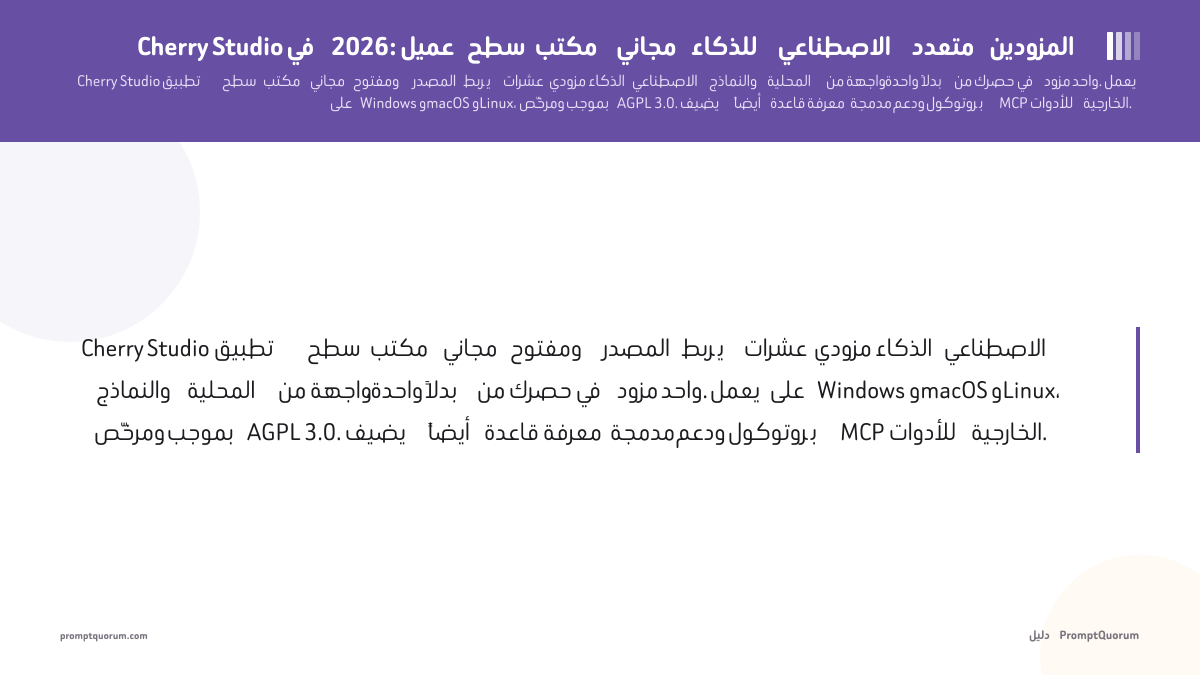
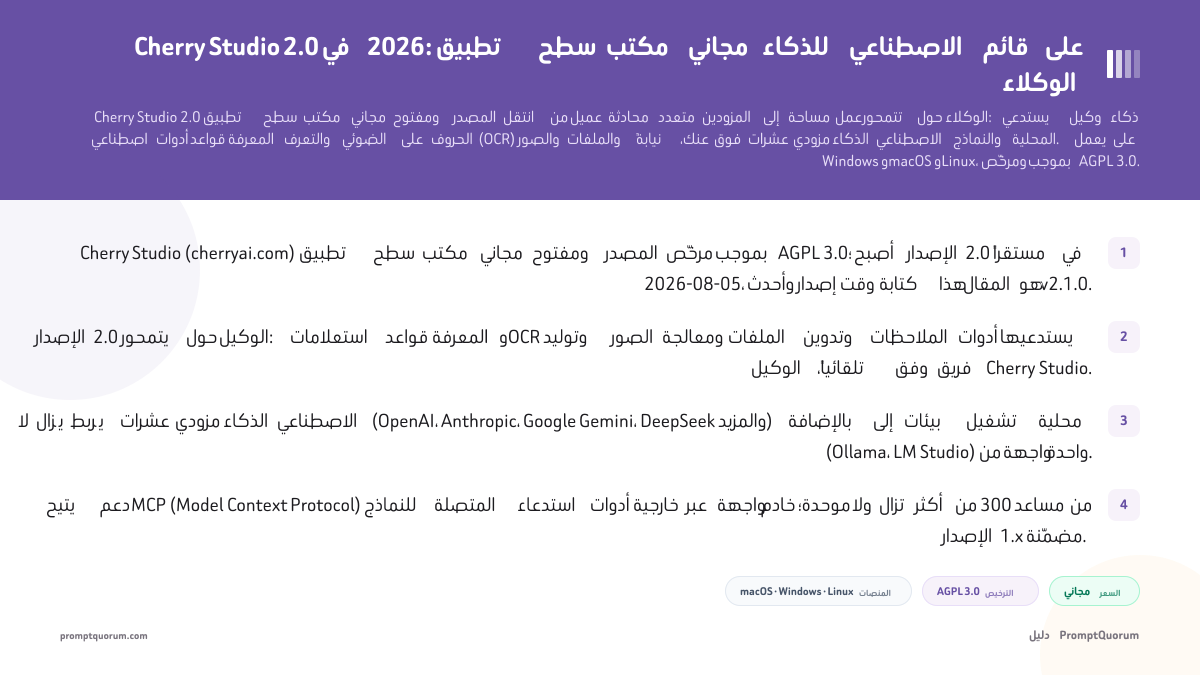
feat(directory): tile pull-quote + Cherry Studio 2.0 hero images + table link fix
- ToolRecordFounder.pullQuote: optional verbatim tile excerpt (Cherry Studio uses it)
- Regenerate all 9 hero images with the 2.0 title and facts chips
- Comparison table Tool cells use **[Name](url)** so links render

diff --git a/src/lib/local-llms/articles/cherry-studio-ai-desktop-client-2026.ts b/src/lib/local-llms/articles/cherry-studio-ai-desktop-client-2026.ts
@@ -230,10 +230,10 @@ export const article: Partial<Record<Language, LLMArticle>> = {
         itemHeadings: true,
         columns: ['Tool', 'Best for', 'Agents', 'Runs local models', 'Cloud providers', 'Built-in RAG', 'MCP support', 'License'],
         rows: [
-          { 'Tool': '[**Cherry Studio**](https://cherryai.com)', 'Best for': 'Agent workspace across many providers', 'Agents': 'Built in (core of 2.0)', 'Runs local models': 'Via Ollama / LM Studio (not native)', 'Cloud providers': 'Dozens', 'Built-in RAG': 'Yes (Agents can use it)', 'MCP support': 'Yes', 'License': 'AGPL 3.0' },
-          { 'Tool': '[**LM Studio**](https://lmstudio.ai)', 'Best for': 'Downloading and running GGUF models locally', 'Agents': 'Via MCP tools only', 'Runs local models': 'Native (GGUF)', 'Cloud providers': 'None built in', 'Built-in RAG': 'Yes (chat with documents)', 'MCP support': 'Yes', 'License': 'Free (closed)' },
-          { 'Tool': '[**AnythingLLM**](https://anythingllm.com)', 'Best for': 'RAG-first document chat with a vector store', 'Agents': 'Yes (@agent skills)', 'Runs local models': 'Via Ollama / LM Studio', 'Cloud providers': 'Several', 'Built-in RAG': 'Yes (core feature)', 'MCP support': 'Yes', 'License': 'MIT' },
-          { 'Tool': '[**Msty**](https://msty.app)', 'Best for': 'Clean consumer UX with minimal setup', 'Agents': 'Via MCP tools', 'Runs local models': 'Via Ollama (built in)', 'Cloud providers': 'Several', 'Built-in RAG': 'Yes', 'MCP support': 'Yes', 'License': 'Freemium (closed)' },
+          { 'Tool': '**[Cherry Studio](https://cherryai.com)**', 'Best for': 'Agent workspace across many providers', 'Agents': 'Built in (core of 2.0)', 'Runs local models': 'Via Ollama / LM Studio (not native)', 'Cloud providers': 'Dozens', 'Built-in RAG': 'Yes (Agents can use it)', 'MCP support': 'Yes', 'License': 'AGPL 3.0' },
+          { 'Tool': '**[LM Studio](https://lmstudio.ai)**', 'Best for': 'Downloading and running GGUF models locally', 'Agents': 'Via MCP tools only', 'Runs local models': 'Native (GGUF)', 'Cloud providers': 'None built in', 'Built-in RAG': 'Yes (chat with documents)', 'MCP support': 'Yes', 'License': 'Free (closed)' },
+          { 'Tool': '**[AnythingLLM](https://anythingllm.com)**', 'Best for': 'RAG-first document chat with a vector store', 'Agents': 'Yes (@agent skills)', 'Runs local models': 'Via Ollama / LM Studio', 'Cloud providers': 'Several', 'Built-in RAG': 'Yes (core feature)', 'MCP support': 'Yes', 'License': 'MIT' },
+          { 'Tool': '**[Msty](https://msty.app)**', 'Best for': 'Clean consumer UX with minimal setup', 'Agents': 'Via MCP tools', 'Runs local models': 'Via Ollama (built in)', 'Cloud providers': 'Several', 'Built-in RAG': 'Yes', 'MCP support': 'Yes', 'License': 'Freemium (closed)' },
         ],
         note: 'Deeper comparison of desktop frontends: [Best Local LLM Frontends](/local-llms/best-local-llm-frontends). Competitor cells reflect each tool\'s public documentation.',
       },
@@ -530,10 +530,10 @@ export const article: Partial<Record<Language, LLMArticle>> = {
         itemHeadings: true,
         columns: ['Tool', 'Am besten für', 'Agenten', 'Lokale Modelle', 'Cloud-Anbieter', 'RAG eingebaut', 'MCP-Unterstützung', 'Lizenz'],
         rows: [
-          { 'Tool': '[**Cherry Studio**](https://cherryai.com)', 'Am besten für': 'Agent-Arbeitsbereich über viele Anbieter', 'Agenten': 'Eingebaut (Kern von 2.0)', 'Lokale Modelle': 'Über Ollama / LM Studio (nicht nativ)', 'Cloud-Anbieter': 'Dutzende', 'RAG eingebaut': 'Ja (Agenten können es nutzen)', 'MCP-Unterstützung': 'Ja', 'Lizenz': 'AGPL 3.0' },
-          { 'Tool': '[**LM Studio**](https://lmstudio.ai)', 'Am besten für': 'GGUF-Modelle lokal herunterladen und ausführen', 'Agenten': 'Nur über MCP-Tools', 'Lokale Modelle': 'Nativ (GGUF)', 'Cloud-Anbieter': 'Keine integriert', 'RAG eingebaut': 'Ja (Chat mit Dokumenten)', 'MCP-Unterstützung': 'Ja', 'Lizenz': 'Kostenlos (proprietär)' },
-          { 'Tool': '[**AnythingLLM**](https://anythingllm.com)', 'Am besten für': 'RAG-first Dokumenten-Chat mit Vektorspeicher', 'Agenten': 'Ja (@agent-Skills)', 'Lokale Modelle': 'Über Ollama / LM Studio', 'Cloud-Anbieter': 'Mehrere', 'RAG eingebaut': 'Ja (Kernfunktion)', 'MCP-Unterstützung': 'Ja', 'Lizenz': 'MIT' },
-          { 'Tool': '[**Msty**](https://msty.app)', 'Am besten für': 'Übersichtliche Consumer-UX mit minimaler Einrichtung', 'Agenten': 'Über MCP-Tools', 'Lokale Modelle': 'Über Ollama (integriert)', 'Cloud-Anbieter': 'Mehrere', 'RAG eingebaut': 'Ja', 'MCP-Unterstützung': 'Ja', 'Lizenz': 'Freemium (proprietär)' },
+          { 'Tool': '**[Cherry Studio](https://cherryai.com)**', 'Am besten für': 'Agent-Arbeitsbereich über viele Anbieter', 'Agenten': 'Eingebaut (Kern von 2.0)', 'Lokale Modelle': 'Über Ollama / LM Studio (nicht nativ)', 'Cloud-Anbieter': 'Dutzende', 'RAG eingebaut': 'Ja (Agenten können es nutzen)', 'MCP-Unterstützung': 'Ja', 'Lizenz': 'AGPL 3.0' },
+          { 'Tool': '**[LM Studio](https://lmstudio.ai)**', 'Am besten für': 'GGUF-Modelle lokal herunterladen und ausführen', 'Agenten': 'Nur über MCP-Tools', 'Lokale Modelle': 'Nativ (GGUF)', 'Cloud-Anbieter': 'Keine integriert', 'RAG eingebaut': 'Ja (Chat mit Dokumenten)', 'MCP-Unterstützung': 'Ja', 'Lizenz': 'Kostenlos (proprietär)' },
+          { 'Tool': '**[AnythingLLM](https://anythingllm.com)**', 'Am besten für': 'RAG-first Dokumenten-Chat mit Vektorspeicher', 'Agenten': 'Ja (@agent-Skills)', 'Lokale Modelle': 'Über Ollama / LM Studio', 'Cloud-Anbieter': 'Mehrere', 'RAG eingebaut': 'Ja (Kernfunktion)', 'MCP-Unterstützung': 'Ja', 'Lizenz': 'MIT' },
+          { 'Tool': '**[Msty](https://msty.app)**', 'Am besten für': 'Übersichtliche Consumer-UX mit minimaler Einrichtung', 'Agenten': 'Über MCP-Tools', 'Lokale Modelle': 'Über Ollama (integriert)', 'Cloud-Anbieter': 'Mehrere', 'RAG eingebaut': 'Ja', 'MCP-Unterstützung': 'Ja', 'Lizenz': 'Freemium (proprietär)' },
         ],
         note: 'Tieferer Vergleich von Desktop-Frontends: [Best Local LLM Frontends](/de/local-llms/best-local-llm-frontends). Die Zellen der Konkurrenten spiegeln die öffentliche Dokumentation des jeweiligen Tools wider.',
       },
@@ -830,10 +830,10 @@ export const article: Partial<Record<Language, LLMArticle>> = {
         itemHeadings: true,
         columns: ['Herramienta', 'Mejor para', 'Agentes', 'Modelos locales', 'Proveedores en la nube', 'RAG integrado', 'Soporte MCP', 'Licencia'],
         rows: [
-          { 'Herramienta': '[**Cherry Studio**](https://cherryai.com)', 'Mejor para': 'Espacio de agentes con muchos proveedores', 'Agentes': 'Integrados (núcleo de la 2.0)', 'Modelos locales': 'Vía Ollama / LM Studio (no nativo)', 'Proveedores en la nube': 'Decenas', 'RAG integrado': 'Sí (los agentes lo usan)', 'Soporte MCP': 'Sí', 'Licencia': 'AGPL 3.0' },
-          { 'Herramienta': '[**LM Studio**](https://lmstudio.ai)', 'Mejor para': 'Descargar y ejecutar modelos GGUF localmente', 'Agentes': 'Solo vía herramientas MCP', 'Modelos locales': 'Nativo (GGUF)', 'Proveedores en la nube': 'Ninguno integrado', 'RAG integrado': 'Sí (chat con documentos)', 'Soporte MCP': 'Sí', 'Licencia': 'Gratis (cerrado)' },
-          { 'Herramienta': '[**AnythingLLM**](https://anythingllm.com)', 'Mejor para': 'Chat documental RAG-first con almacén vectorial', 'Agentes': 'Sí (habilidades @agent)', 'Modelos locales': 'Vía Ollama / LM Studio', 'Proveedores en la nube': 'Varios', 'RAG integrado': 'Sí (función central)', 'Soporte MCP': 'Sí', 'Licencia': 'MIT' },
-          { 'Herramienta': '[**Msty**](https://msty.app)', 'Mejor para': 'UX de consumo limpia con configuración mínima', 'Agentes': 'Vía herramientas MCP', 'Modelos locales': 'Vía Ollama (integrado)', 'Proveedores en la nube': 'Varios', 'RAG integrado': 'Sí', 'Soporte MCP': 'Sí', 'Licencia': 'Freemium (cerrado)' },
+          { 'Herramienta': '**[Cherry Studio](https://cherryai.com)**', 'Mejor para': 'Espacio de agentes con muchos proveedores', 'Agentes': 'Integrados (núcleo de la 2.0)', 'Modelos locales': 'Vía Ollama / LM Studio (no nativo)', 'Proveedores en la nube': 'Decenas', 'RAG integrado': 'Sí (los agentes lo usan)', 'Soporte MCP': 'Sí', 'Licencia': 'AGPL 3.0' },
+          { 'Herramienta': '**[LM Studio](https://lmstudio.ai)**', 'Mejor para': 'Descargar y ejecutar modelos GGUF localmente', 'Agentes': 'Solo vía herramientas MCP', 'Modelos locales': 'Nativo (GGUF)', 'Proveedores en la nube': 'Ninguno integrado', 'RAG integrado': 'Sí (chat con documentos)', 'Soporte MCP': 'Sí', 'Licencia': 'Gratis (cerrado)' },
+          { 'Herramienta': '**[AnythingLLM](https://anythingllm.com)**', 'Mejor para': 'Chat documental RAG-first con almacén vectorial', 'Agentes': 'Sí (habilidades @agent)', 'Modelos locales': 'Vía Ollama / LM Studio', 'Proveedores en la nube': 'Varios', 'RAG integrado': 'Sí (función central)', 'Soporte MCP': 'Sí', 'Licencia': 'MIT' },
+          { 'Herramienta': '**[Msty](https://msty.app)**', 'Mejor para': 'UX de consumo limpia con configuración mínima', 'Agentes': 'Vía herramientas MCP', 'Modelos locales': 'Vía Ollama (integrado)', 'Proveedores en la nube': 'Varios', 'RAG integrado': 'Sí', 'Soporte MCP': 'Sí', 'Licencia': 'Freemium (cerrado)' },
         ],
         note: 'Comparación más profunda de frontends de escritorio: [Best Local LLM Frontends](/es/local-llms/best-local-llm-frontends). Las celdas de la competencia reflejan la documentación pública de cada herramienta.',
       },
@@ -1130,10 +1130,10 @@ export const article: Partial<Record<Language, LLMArticle>> = {
         itemHeadings: true,
         columns: ['Outil', 'Idéal pour', 'Agents', 'Modèles locaux', 'Fournisseurs cloud', 'RAG intégré', 'Support MCP', 'Licence'],
         rows: [
-          { 'Outil': '[**Cherry Studio**](https://cherryai.com)', 'Idéal pour': 'Espace de travail d\'Agents multi-fournisseurs', 'Agents': 'Intégrés (cœur de la 2.0)', 'Modèles locaux': 'Via Ollama / LM Studio (non natif)', 'Fournisseurs cloud': 'Des dizaines', 'RAG intégré': 'Oui (utilisable par les Agents)', 'Support MCP': 'Oui', 'Licence': 'AGPL 3.0' },
-          { 'Outil': '[**LM Studio**](https://lmstudio.ai)', 'Idéal pour': 'Télécharger et exécuter des modèles GGUF en local', 'Agents': 'Via les outils MCP uniquement', 'Modèles locaux': 'Natif (GGUF)', 'Fournisseurs cloud': 'Aucun intégré', 'RAG intégré': 'Oui (chat avec documents)', 'Support MCP': 'Oui', 'Licence': 'Gratuit (fermé)' },
-          { 'Outil': '[**AnythingLLM**](https://anythingllm.com)', 'Idéal pour': 'Chat documentaire RAG-first avec base vectorielle', 'Agents': 'Oui (compétences @agent)', 'Modèles locaux': 'Via Ollama / LM Studio', 'Fournisseurs cloud': 'Plusieurs', 'RAG intégré': 'Oui (fonction centrale)', 'Support MCP': 'Oui', 'Licence': 'MIT' },
-          { 'Outil': '[**Msty**](https://msty.app)', 'Idéal pour': 'UX grand public épurée, configuration minimale', 'Agents': 'Via les outils MCP', 'Modèles locaux': 'Via Ollama (intégré)', 'Fournisseurs cloud': 'Plusieurs', 'RAG intégré': 'Oui', 'Support MCP': 'Oui', 'Licence': 'Freemium (fermé)' },
+          { 'Outil': '**[Cherry Studio](https://cherryai.com)**', 'Idéal pour': 'Espace de travail d\'Agents multi-fournisseurs', 'Agents': 'Intégrés (cœur de la 2.0)', 'Modèles locaux': 'Via Ollama / LM Studio (non natif)', 'Fournisseurs cloud': 'Des dizaines', 'RAG intégré': 'Oui (utilisable par les Agents)', 'Support MCP': 'Oui', 'Licence': 'AGPL 3.0' },
+          { 'Outil': '**[LM Studio](https://lmstudio.ai)**', 'Idéal pour': 'Télécharger et exécuter des modèles GGUF en local', 'Agents': 'Via les outils MCP uniquement', 'Modèles locaux': 'Natif (GGUF)', 'Fournisseurs cloud': 'Aucun intégré', 'RAG intégré': 'Oui (chat avec documents)', 'Support MCP': 'Oui', 'Licence': 'Gratuit (fermé)' },
+          { 'Outil': '**[AnythingLLM](https://anythingllm.com)**', 'Idéal pour': 'Chat documentaire RAG-first avec base vectorielle', 'Agents': 'Oui (compétences @agent)', 'Modèles locaux': 'Via Ollama / LM Studio', 'Fournisseurs cloud': 'Plusieurs', 'RAG intégré': 'Oui (fonction centrale)', 'Support MCP': 'Oui', 'Licence': 'MIT' },
+          { 'Outil': '**[Msty](https://msty.app)**', 'Idéal pour': 'UX grand public épurée, configuration minimale', 'Agents': 'Via les outils MCP', 'Modèles locaux': 'Via Ollama (intégré)', 'Fournisseurs cloud': 'Plusieurs', 'RAG intégré': 'Oui', 'Support MCP': 'Oui', 'Licence': 'Freemium (fermé)' },
         ],
         note: 'Comparatif plus approfondi des frontends de bureau : [Best Local LLM Frontends](/fr/local-llms/best-local-llm-frontends). Les cellules des concurrents reflètent la documentation publique de chaque outil.',
       },
@@ -1430,10 +1430,10 @@ export const article: Partial<Record<Language, LLMArticle>> = {
         itemHeadings: true,
         columns: ['ツール', '最適な用途', 'エージェント', 'ローカルモデル実行', 'クラウドプロバイダー', 'RAG内蔵', 'MCP対応', 'ライセンス'],
         rows: [
-          { 'ツール': '[**Cherry Studio**](https://cherryai.com)', '最適な用途': '多数のプロバイダーにまたがるエージェント作業環境', 'エージェント': '内蔵(2.0の中核)', 'ローカルモデル実行': 'Ollama / LM Studio経由(ネイティブ非対応)', 'クラウドプロバイダー': '数十', 'RAG内蔵': 'あり(エージェントも利用可)', 'MCP対応': 'あり', 'ライセンス': 'AGPL 3.0' },
-          { 'ツール': '[**LM Studio**](https://lmstudio.ai)', '最適な用途': 'GGUFモデルのダウンロードとローカル実行', 'エージェント': 'MCPツール経由のみ', 'ローカルモデル実行': 'ネイティブ(GGUF)', 'クラウドプロバイダー': '内蔵なし', 'RAG内蔵': 'あり(文書とチャット)', 'MCP対応': 'あり', 'ライセンス': '無料(クローズド)' },
-          { 'ツール': '[**AnythingLLM**](https://anythingllm.com)', '最適な用途': 'ベクトルストアを使うRAG重視の文書チャット', 'エージェント': 'あり(@agentスキル)', 'ローカルモデル実行': 'Ollama / LM Studio経由', 'クラウドプロバイダー': '複数', 'RAG内蔵': 'あり(中核機能)', 'MCP対応': 'あり', 'ライセンス': 'MIT' },
-          { 'ツール': '[**Msty**](https://msty.app)', '最適な用途': '最小限の設定で使える分かりやすいUX', 'エージェント': 'MCPツール経由', 'ローカルモデル実行': 'Ollama経由(内蔵)', 'クラウドプロバイダー': '複数', 'RAG内蔵': 'あり', 'MCP対応': 'あり', 'ライセンス': 'フリーミアム(クローズド)' },
+          { 'ツール': '**[Cherry Studio](https://cherryai.com)**', '最適な用途': '多数のプロバイダーにまたがるエージェント作業環境', 'エージェント': '内蔵(2.0の中核)', 'ローカルモデル実行': 'Ollama / LM Studio経由(ネイティブ非対応)', 'クラウドプロバイダー': '数十', 'RAG内蔵': 'あり(エージェントも利用可)', 'MCP対応': 'あり', 'ライセンス': 'AGPL 3.0' },
+          { 'ツール': '**[LM Studio](https://lmstudio.ai)**', '最適な用途': 'GGUFモデルのダウンロードとローカル実行', 'エージェント': 'MCPツール経由のみ', 'ローカルモデル実行': 'ネイティブ(GGUF)', 'クラウドプロバイダー': '内蔵なし', 'RAG内蔵': 'あり(文書とチャット)', 'MCP対応': 'あり', 'ライセンス': '無料(クローズド)' },
+          { 'ツール': '**[AnythingLLM](https://anythingllm.com)**', '最適な用途': 'ベクトルストアを使うRAG重視の文書チャット', 'エージェント': 'あり(@agentスキル)', 'ローカルモデル実行': 'Ollama / LM Studio経由', 'クラウドプロバイダー': '複数', 'RAG内蔵': 'あり(中核機能)', 'MCP対応': 'あり', 'ライセンス': 'MIT' },
+          { 'ツール': '**[Msty](https://msty.app)**', '最適な用途': '最小限の設定で使える分かりやすいUX', 'エージェント': 'MCPツール経由', 'ローカルモデル実行': 'Ollama経由(内蔵)', 'クラウドプロバイダー': '複数', 'RAG内蔵': 'あり', 'MCP対応': 'あり', 'ライセンス': 'フリーミアム(クローズド)' },
         ],
         note: 'デスクトップフロントエンドの詳細比較:[Best Local LLM Frontends](/ja/local-llms/best-local-llm-frontends)。競合ツールのセルは、各ツールの公開ドキュメントの内容を反映しています。',
       },
@@ -1730,10 +1730,10 @@ export const article: Partial<Record<Language, LLMArticle>> = {
         itemHeadings: true,
         columns: ['工具', '最适合', 'Agent', '本地模型', '云端提供商', '内置RAG', 'MCP支持', '许可证'],
         rows: [
-          { '工具': '[**Cherry Studio**](https://cherryai.com)', '最适合': '跨众多提供商的Agent工作空间', 'Agent': '内置(2.0的核心)', '本地模型': '通过Ollama / LM Studio(非原生)', '云端提供商': '数十家', '内置RAG': '有(Agent可使用)', 'MCP支持': '有', '许可证': 'AGPL 3.0' },
-          { '工具': '[**LM Studio**](https://lmstudio.ai)', '最适合': '本地下载并运行GGUF模型', 'Agent': '仅通过MCP工具', '本地模型': '原生支持(GGUF)', '云端提供商': '未内置', '内置RAG': '有(与文档聊天)', 'MCP支持': '有', '许可证': '免费(闭源)' },
-          { '工具': '[**AnythingLLM**](https://anythingllm.com)', '最适合': '以向量库为核心的RAG优先文档聊天', 'Agent': '有(@agent技能)', '本地模型': '通过Ollama / LM Studio', '云端提供商': '多家', '内置RAG': '有(核心功能)', 'MCP支持': '有', '许可证': 'MIT' },
-          { '工具': '[**Msty**](https://msty.app)', '最适合': '配置极简的清爽消费级体验', 'Agent': '通过MCP工具', '本地模型': '通过Ollama(内置)', '云端提供商': '多家', '内置RAG': '有', 'MCP支持': '有', '许可证': '免费增值(闭源)' },
+          { '工具': '**[Cherry Studio](https://cherryai.com)**', '最适合': '跨众多提供商的Agent工作空间', 'Agent': '内置(2.0的核心)', '本地模型': '通过Ollama / LM Studio(非原生)', '云端提供商': '数十家', '内置RAG': '有(Agent可使用)', 'MCP支持': '有', '许可证': 'AGPL 3.0' },
+          { '工具': '**[LM Studio](https://lmstudio.ai)**', '最适合': '本地下载并运行GGUF模型', 'Agent': '仅通过MCP工具', '本地模型': '原生支持(GGUF)', '云端提供商': '未内置', '内置RAG': '有(与文档聊天)', 'MCP支持': '有', '许可证': '免费(闭源)' },
+          { '工具': '**[AnythingLLM](https://anythingllm.com)**', '最适合': '以向量库为核心的RAG优先文档聊天', 'Agent': '有(@agent技能)', '本地模型': '通过Ollama / LM Studio', '云端提供商': '多家', '内置RAG': '有(核心功能)', 'MCP支持': '有', '许可证': 'MIT' },
+          { '工具': '**[Msty](https://msty.app)**', '最适合': '配置极简的清爽消费级体验', 'Agent': '通过MCP工具', '本地模型': '通过Ollama(内置)', '云端提供商': '多家', '内置RAG': '有', 'MCP支持': '有', '许可证': '免费增值(闭源)' },
         ],
         note: '桌面前端更深入的对比:[Best Local LLM Frontends](/zh/local-llms/best-local-llm-frontends)。竞品单元格内容依据各工具的公开文档。',
       },
@@ -2030,10 +2030,10 @@ export const article: Partial<Record<Language, LLMArticle>> = {
         itemHeadings: true,
         columns: ['Ferramenta', 'Ideal para', 'Agentes', 'Roda modelos locais', 'Provedores em nuvem', 'RAG integrado', 'Suporte a MCP', 'Licença'],
         rows: [
-          { 'Ferramenta': '[**Cherry Studio**](https://cherryai.com)', 'Ideal para': 'Espaço de Agentes com vários provedores', 'Agentes': 'Integrados (núcleo da 2.0)', 'Roda modelos locais': 'Via Ollama / LM Studio (não nativo)', 'Provedores em nuvem': 'Dezenas', 'RAG integrado': 'Sim (Agentes podem usar)', 'Suporte a MCP': 'Sim', 'Licença': 'AGPL 3.0' },
-          { 'Ferramenta': '[**LM Studio**](https://lmstudio.ai)', 'Ideal para': 'Baixar e rodar modelos GGUF localmente', 'Agentes': 'Só via ferramentas MCP', 'Roda modelos locais': 'Nativo (GGUF)', 'Provedores em nuvem': 'Nenhum integrado', 'RAG integrado': 'Sim (chat com documentos)', 'Suporte a MCP': 'Sim', 'Licença': 'Gratuito (código fechado)' },
-          { 'Ferramenta': '[**AnythingLLM**](https://anythingllm.com)', 'Ideal para': 'Chat com documentos focado em RAG e vector store', 'Agentes': 'Sim (skills @agent)', 'Roda modelos locais': 'Via Ollama / LM Studio', 'Provedores em nuvem': 'Vários', 'RAG integrado': 'Sim (recurso central)', 'Suporte a MCP': 'Sim', 'Licença': 'MIT' },
-          { 'Ferramenta': '[**Msty**](https://msty.app)', 'Ideal para': 'UX limpa para o consumidor, pouca configuração', 'Agentes': 'Via ferramentas MCP', 'Roda modelos locais': 'Via Ollama (integrado)', 'Provedores em nuvem': 'Vários', 'RAG integrado': 'Sim', 'Suporte a MCP': 'Sim', 'Licença': 'Freemium (código fechado)' },
+          { 'Ferramenta': '**[Cherry Studio](https://cherryai.com)**', 'Ideal para': 'Espaço de Agentes com vários provedores', 'Agentes': 'Integrados (núcleo da 2.0)', 'Roda modelos locais': 'Via Ollama / LM Studio (não nativo)', 'Provedores em nuvem': 'Dezenas', 'RAG integrado': 'Sim (Agentes podem usar)', 'Suporte a MCP': 'Sim', 'Licença': 'AGPL 3.0' },
+          { 'Ferramenta': '**[LM Studio](https://lmstudio.ai)**', 'Ideal para': 'Baixar e rodar modelos GGUF localmente', 'Agentes': 'Só via ferramentas MCP', 'Roda modelos locais': 'Nativo (GGUF)', 'Provedores em nuvem': 'Nenhum integrado', 'RAG integrado': 'Sim (chat com documentos)', 'Suporte a MCP': 'Sim', 'Licença': 'Gratuito (código fechado)' },
+          { 'Ferramenta': '**[AnythingLLM](https://anythingllm.com)**', 'Ideal para': 'Chat com documentos focado em RAG e vector store', 'Agentes': 'Sim (skills @agent)', 'Roda modelos locais': 'Via Ollama / LM Studio', 'Provedores em nuvem': 'Vários', 'RAG integrado': 'Sim (recurso central)', 'Suporte a MCP': 'Sim', 'Licença': 'MIT' },
+          { 'Ferramenta': '**[Msty](https://msty.app)**', 'Ideal para': 'UX limpa para o consumidor, pouca configuração', 'Agentes': 'Via ferramentas MCP', 'Roda modelos locais': 'Via Ollama (integrado)', 'Provedores em nuvem': 'Vários', 'RAG integrado': 'Sim', 'Suporte a MCP': 'Sim', 'Licença': 'Freemium (código fechado)' },
         ],
         note: 'Comparação mais aprofundada de frontends de desktop: [Best Local LLM Frontends](/pt/local-llms/best-local-llm-frontends). As células dos concorrentes refletem a documentação pública de cada ferramenta.',
       },
@@ -2330,10 +2330,10 @@ export const article: Partial<Record<Language, LLMArticle>> = {
         itemHeadings: true,
         columns: ['الأداة', 'الأفضل لـ', 'الوكلاء', 'النماذج المحلية', 'المزودون السحابيون', 'RAG مدمج', 'دعم MCP', 'الترخيص'],
         rows: [
-          { 'الأداة': '[**Cherry Studio**](https://cherryai.com)', 'الأفضل لـ': 'مساحة عمل وكلاء عبر مزودين كثر', 'الوكلاء': 'مدمج (جوهر 2.0)', 'النماذج المحلية': 'عبر Ollama / LM Studio (غير أصلي)', 'المزودون السحابيون': 'عشرات', 'RAG مدمج': 'نعم (يستخدمه الوكلاء)', 'دعم MCP': 'نعم', 'الترخيص': 'AGPL 3.0' },
-          { 'الأداة': '[**LM Studio**](https://lmstudio.ai)', 'الأفضل لـ': 'تنزيل وتشغيل نماذج GGUF محلياً', 'الوكلاء': 'عبر أدوات MCP فقط', 'النماذج المحلية': 'أصلي (GGUF)', 'المزودون السحابيون': 'لا يوجد مدمج', 'RAG مدمج': 'نعم (محادثة مع المستندات)', 'دعم MCP': 'نعم', 'الترخيص': 'مجاني (مغلق)' },
-          { 'الأداة': '[**AnythingLLM**](https://anythingllm.com)', 'الأفضل لـ': 'محادثة مستندات RAG أولاً مع مخزن متجهات', 'الوكلاء': 'نعم (مهارات @agent)', 'النماذج المحلية': 'عبر Ollama / LM Studio', 'المزودون السحابيون': 'عدة', 'RAG مدمج': 'نعم (ميزة أساسية)', 'دعم MCP': 'نعم', 'الترخيص': 'MIT' },
-          { 'الأداة': '[**Msty**](https://msty.app)', 'الأفضل لـ': 'تجربة استخدام بسيطة بإعداد أدنى', 'الوكلاء': 'عبر أدوات MCP', 'النماذج المحلية': 'عبر Ollama (مدمج)', 'المزودون السحابيون': 'عدة', 'RAG مدمج': 'نعم', 'دعم MCP': 'نعم', 'الترخيص': 'مجاني جزئياً (مغلق)' },
+          { 'الأداة': '**[Cherry Studio](https://cherryai.com)**', 'الأفضل لـ': 'مساحة عمل وكلاء عبر مزودين كثر', 'الوكلاء': 'مدمج (جوهر 2.0)', 'النماذج المحلية': 'عبر Ollama / LM Studio (غير أصلي)', 'المزودون السحابيون': 'عشرات', 'RAG مدمج': 'نعم (يستخدمه الوكلاء)', 'دعم MCP': 'نعم', 'الترخيص': 'AGPL 3.0' },
+          { 'الأداة': '**[LM Studio](https://lmstudio.ai)**', 'الأفضل لـ': 'تنزيل وتشغيل نماذج GGUF محلياً', 'الوكلاء': 'عبر أدوات MCP فقط', 'النماذج المحلية': 'أصلي (GGUF)', 'المزودون السحابيون': 'لا يوجد مدمج', 'RAG مدمج': 'نعم (محادثة مع المستندات)', 'دعم MCP': 'نعم', 'الترخيص': 'مجاني (مغلق)' },
+          { 'الأداة': '**[AnythingLLM](https://anythingllm.com)**', 'الأفضل لـ': 'محادثة مستندات RAG أولاً مع مخزن متجهات', 'الوكلاء': 'نعم (مهارات @agent)', 'النماذج المحلية': 'عبر Ollama / LM Studio', 'المزودون السحابيون': 'عدة', 'RAG مدمج': 'نعم (ميزة أساسية)', 'دعم MCP': 'نعم', 'الترخيص': 'MIT' },
+          { 'الأداة': '**[Msty](https://msty.app)**', 'الأفضل لـ': 'تجربة استخدام بسيطة بإعداد أدنى', 'الوكلاء': 'عبر أدوات MCP', 'النماذج المحلية': 'عبر Ollama (مدمج)', 'المزودون السحابيون': 'عدة', 'RAG مدمج': 'نعم', 'دعم MCP': 'نعم', 'الترخيص': 'مجاني جزئياً (مغلق)' },
         ],
         note: 'مقارنة أعمق لواجهات سطح المكتب: [Best Local LLM Frontends](/ar/local-llms/best-local-llm-frontends). تعكس خلايا المنافسين الوثائق العامة لكل أداة.',
       },
@@ -2630,10 +2630,10 @@ export const article: Partial<Record<Language, LLMArticle>> = {
         itemHeadings: true,
         columns: ['도구', '최적 용도', '에이전트', '로컬 모델 실행', '클라우드 제공업체', 'RAG 내장', 'MCP 지원', '라이선스'],
         rows: [
-          { '도구': '[**Cherry Studio**](https://cherryai.com)', '최적 용도': '여러 제공업체를 아우르는 에이전트 워크스페이스', '에이전트': '내장(2.0의 핵심)', '로컬 모델 실행': 'Ollama / LM Studio 경유(네이티브 아님)', '클라우드 제공업체': '수십 개', 'RAG 내장': '있음(에이전트도 사용 가능)', 'MCP 지원': '있음', '라이선스': 'AGPL 3.0' },
-          { '도구': '[**LM Studio**](https://lmstudio.ai)', '최적 용도': 'GGUF 모델을 로컬에서 다운로드 및 실행', '에이전트': 'MCP 도구로만 가능', '로컬 모델 실행': '네이티브(GGUF)', '클라우드 제공업체': '내장 없음', 'RAG 내장': '있음(문서와 채팅)', 'MCP 지원': '있음', '라이선스': '무료(비공개 소스)' },
-          { '도구': '[**AnythingLLM**](https://anythingllm.com)', '최적 용도': '벡터 저장소를 갖춘 RAG 우선 문서 채팅', '에이전트': '있음(@agent 스킬)', '로컬 모델 실행': 'Ollama / LM Studio 경유', '클라우드 제공업체': '여러 개', 'RAG 내장': '있음(핵심 기능)', 'MCP 지원': '있음', '라이선스': 'MIT' },
-          { '도구': '[**Msty**](https://msty.app)', '최적 용도': '최소 설정의 깔끔한 소비자용 UX', '에이전트': 'MCP 도구로 가능', '로컬 모델 실행': 'Ollama 경유(내장)', '클라우드 제공업체': '여러 개', 'RAG 내장': '있음', 'MCP 지원': '있음', '라이선스': '프리미엄(비공개 소스)' },
+          { '도구': '**[Cherry Studio](https://cherryai.com)**', '최적 용도': '여러 제공업체를 아우르는 에이전트 워크스페이스', '에이전트': '내장(2.0의 핵심)', '로컬 모델 실행': 'Ollama / LM Studio 경유(네이티브 아님)', '클라우드 제공업체': '수십 개', 'RAG 내장': '있음(에이전트도 사용 가능)', 'MCP 지원': '있음', '라이선스': 'AGPL 3.0' },
+          { '도구': '**[LM Studio](https://lmstudio.ai)**', '최적 용도': 'GGUF 모델을 로컬에서 다운로드 및 실행', '에이전트': 'MCP 도구로만 가능', '로컬 모델 실행': '네이티브(GGUF)', '클라우드 제공업체': '내장 없음', 'RAG 내장': '있음(문서와 채팅)', 'MCP 지원': '있음', '라이선스': '무료(비공개 소스)' },
+          { '도구': '**[AnythingLLM](https://anythingllm.com)**', '최적 용도': '벡터 저장소를 갖춘 RAG 우선 문서 채팅', '에이전트': '있음(@agent 스킬)', '로컬 모델 실행': 'Ollama / LM Studio 경유', '클라우드 제공업체': '여러 개', 'RAG 내장': '있음(핵심 기능)', 'MCP 지원': '있음', '라이선스': 'MIT' },
+          { '도구': '**[Msty](https://msty.app)**', '최적 용도': '최소 설정의 깔끔한 소비자용 UX', '에이전트': 'MCP 도구로 가능', '로컬 모델 실행': 'Ollama 경유(내장)', '클라우드 제공업체': '여러 개', 'RAG 내장': '있음', 'MCP 지원': '있음', '라이선스': '프리미엄(비공개 소스)' },
         ],
         note: '데스크톱 프런트엔드에 대한 더 깊은 비교: [Best Local LLM Frontends](/ko/local-llms/best-local-llm-frontends). 경쟁 제품 셀은 각 도구의 공개 문서를 반영한 것입니다.',
       },

diff --git a/src/lib/power-local-llm/apps/cherry-studio.ts b/src/lib/power-local-llm/apps/cherry-studio.ts
@@ -66,6 +66,18 @@ export const app: ToolRecord = {
       ar: 'كل ما يحتاجون إلى قوله هو «ساعدني في إنجاز هذا»، وسيقرر الوكيل تلقائياً هل يستعلم من قاعدة المعرفة، أو يشغّل OCR، أو يولّد صورة، أو يعالج ملفاً، أو يكتب ملاحظة.',
       ko: '사용자는 ‘이 일을 처리해 줘’라고 말하기만 하면 되고, 에이전트가 지식 베이스를 조회할지, OCR을 실행할지, 이미지를 생성할지, 파일을 처리할지, 노트를 작성할지 자동으로 결정합니다.',
     },
+    // Tile excerpt: the statement's key sentence, verbatim (the full quote opens with the 1.x-era problem).
+    pullQuote: {
+      en: 'All they should need to say is "Help me get this done," and the Agent will automatically decide whether to query the knowledge base, trigger OCR, generate an image, process a file, or write a note.',
+      de: 'Sie sollen nur noch sagen: „Hilf mir, das zu erledigen“, und der Agent entscheidet automatisch, ob er die Wissensdatenbank abfragt, OCR auslöst, ein Bild generiert, eine Datei verarbeitet oder eine Notiz schreibt.',
+      fr: 'Il leur suffira de dire « Aide-moi à faire ça », et l\'Agent décidera automatiquement s\'il faut interroger la base de connaissances, déclencher l\'OCR, générer une image, traiter un fichier ou rédiger une note.',
+      ja: '必要なのは「これを片付けて」と言うだけ。あとはエージェントが、ナレッジベースに問い合わせるか、OCRを起動するか、画像を生成するか、ファイルを処理するか、ノートを書くかを自動的に判断します。',
+      zh: '他们只需要说一句“帮我把这件事办好”,Agent就会自动决定是查询知识库、触发OCR、生成图片、处理文件,还是写一条笔记。',
+      es: 'Todo lo que deberían necesitar decir es “Ayúdame a terminar esto”, y el agente decidirá automáticamente si consulta la base de conocimiento, activa el OCR, genera una imagen, procesa un archivo o escribe una nota.',
+      pt: 'Tudo o que precisarão dizer é “Ajude-me a resolver isto”, e o Agente decidirá automaticamente se deve consultar a base de conhecimento, acionar o OCR, gerar uma imagem, processar um arquivo ou escrever uma nota.',
+      ar: 'كل ما يحتاجون إلى قوله هو «ساعدني في إنجاز هذا»، وسيقرر الوكيل تلقائياً هل يستعلم من قاعدة المعرفة، أو يشغّل OCR، أو يولّد صورة، أو يعالج ملفاً، أو يكتب ملاحظة.',
+      ko: '사용자는 ‘이 일을 처리해 줘’라고 말하기만 하면 되고, 에이전트가 지식 베이스를 조회할지, OCR을 실행할지, 이미지를 생성할지, 파일을 처리할지, 노트를 작성할지 자동으로 결정합니다.',
+    },
     providedDate: '2026-09-20',
     // Verbatim statement from the Cherry Studio team (English original; other languages are translations),
     // same text as the "From the Maker" section in the review article.

diff --git a/src/components/local-ai-directory/ToolCard.tsx b/src/components/local-ai-directory/ToolCard.tsx
@@ -199,7 +199,7 @@ export function ToolCard({
             {/* Prefer his own verbatim words when we have them; `why` is a
                 PromptQuorum paraphrase and shouldn't be shown in quotation
                 marks as if it were a direct quote. */}
-            &ldquo;{founderParagraphs(app.founder.fullQuote, lang)?.[0] ?? founderText(app.founder.why, lang)}&rdquo; <span className="not-italic font-medium">— {t('fromTheMaker', lang)}</span>
+            &ldquo;{app.founder.pullQuote ? founderText(app.founder.pullQuote, lang) : founderParagraphs(app.founder.fullQuote, lang)?.[0] ?? founderText(app.founder.why, lang)}&rdquo; <span className="not-italic font-medium">— {t('fromTheMaker', lang)}</span>
           </p>
         )}
 

diff --git a/src/lib/power-local-llm/apps/types.ts b/src/lib/power-local-llm/apps/types.ts
@@ -89,6 +89,9 @@ export interface ToolRecordFounder {
   // block in ToolDrawer so it doesn't force the drawer to grow — collapsed
   // by default, `why`/`best`/`limits` above already give the short version.
   fullQuote?: FounderParagraphs
+  // Optional verbatim excerpt shown on the directory tile (which clamps to two lines) instead of the
+  // first paragraph of `fullQuote`, for statements whose opening sentence isn't the strongest one.
+  pullQuote?: FounderText
 }
 
 export interface ToolRecordReview {
